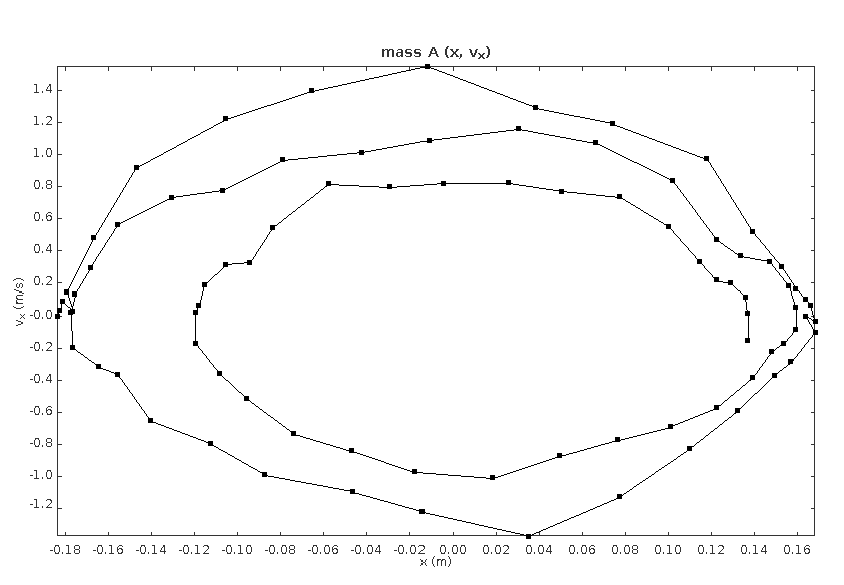
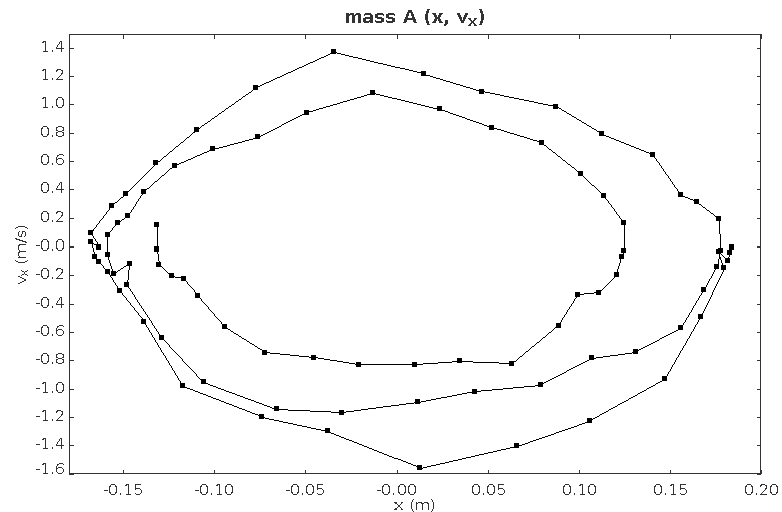
Added new time plot from video analysis.

diff --git a/Report/tex/resultados.tex b/Report/tex/resultados.tex
@@ -37,3 +37,12 @@ posición y velocidad con respecto al eje $x$.
  \caption{Diagrama de fase del modelo físico para $y$ y $\dot{y}$}
  \label{fig: tracker phase diagram y vy}
 \end{figure}
+
+
+\begin{figure}[h]
+ \centering
+ \includegraphics[scale=0.3]{./img/tracker_poc_timeplot_x.png}
+ % tracker_poc_phasediagram_x_vx.png: 844x585 px, 72dpi, 29.78x20.64 cm, bb=0 0 844 585
+ \caption{Diagrama de tiempo del modelo físico para $x$.}
+ \label{fig: tracker phase diagram y vy}
+\end{figure}

diff --git a/Report/report.tex b/Report/report.tex
@@ -92,7 +92,7 @@ kit de LEGO Mindstorm.
 \input{./tex/resultados}
 \input{./tex/conclusiones}
 
-here \cite{susskind}.% Just a citation here to make sure Bibtex works.
+% here \cite{susskind}.% Just a citation here to make sure Bibtex works.
 
 \bibliographystyle{IEEEtran}
 \bibliography{bibliografia}
